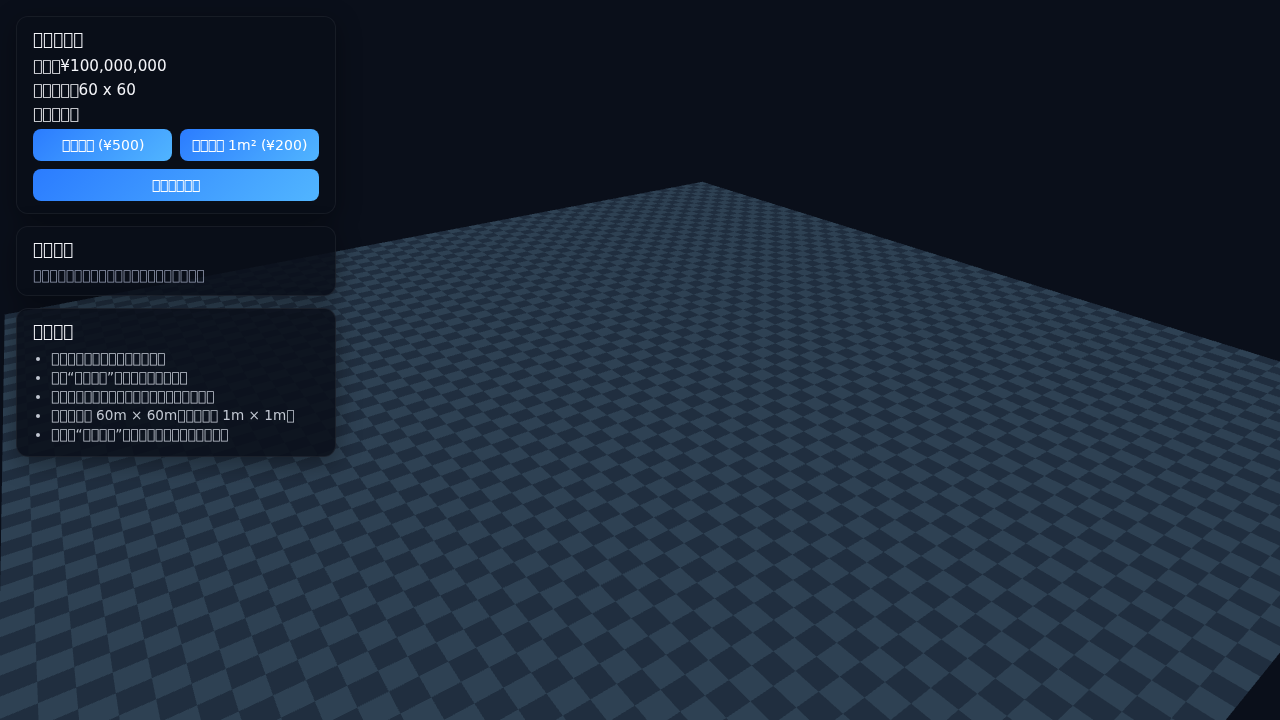
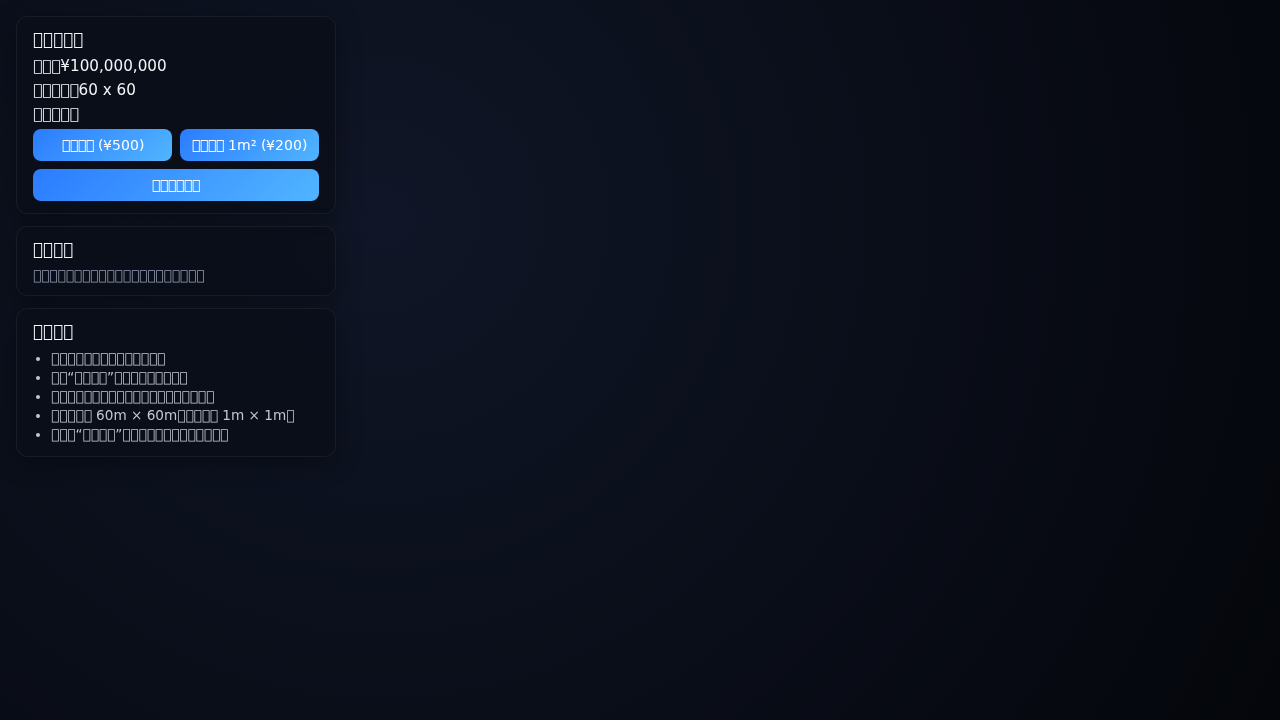
Add normalizeOrFallback utility function

diff --git a/src/main.js b/src/main.js
@@ -58,6 +58,12 @@ function normalizeVec3(v) {
   return [v[0] / len, v[1] / len, v[2] / len];
 }
 
+function normalizeOrFallback(v, fallback = [0, 0, 0]) {
+  const len = lengthVec3(v);
+  if (len === 0) return [...fallback];
+  return [v[0] / len, v[1] / len, v[2] / len];
+}
+
 function crossVec3(a, b) {
   return [
     a[1] * b[2] - a[2] * b[1],
